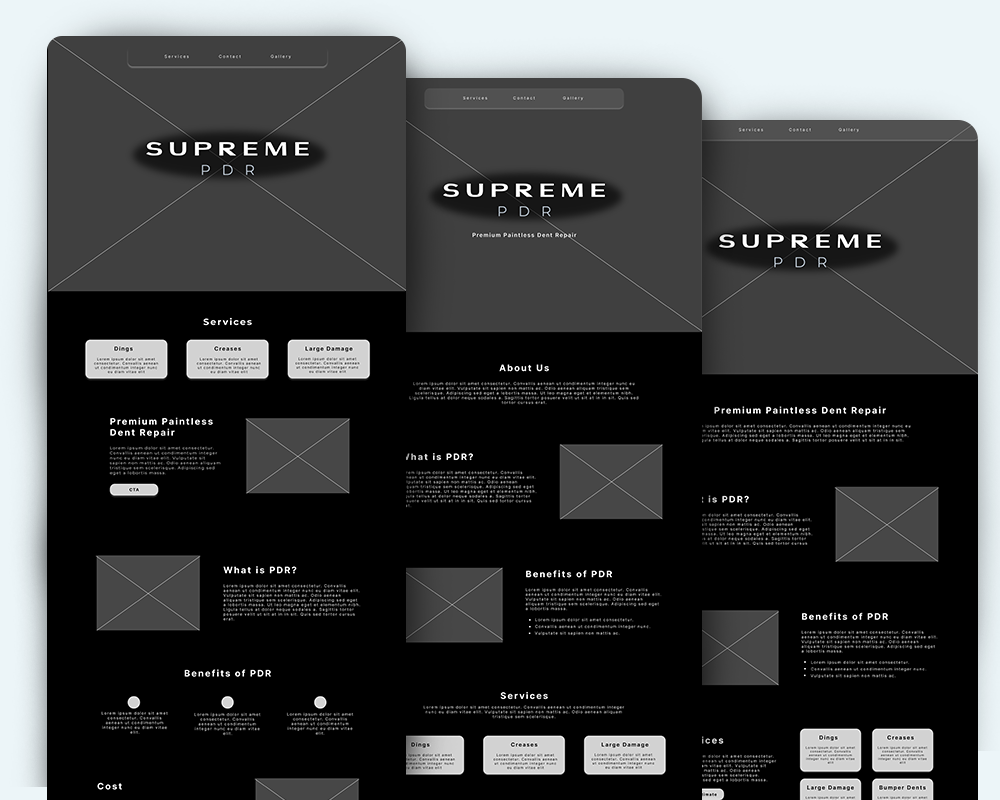
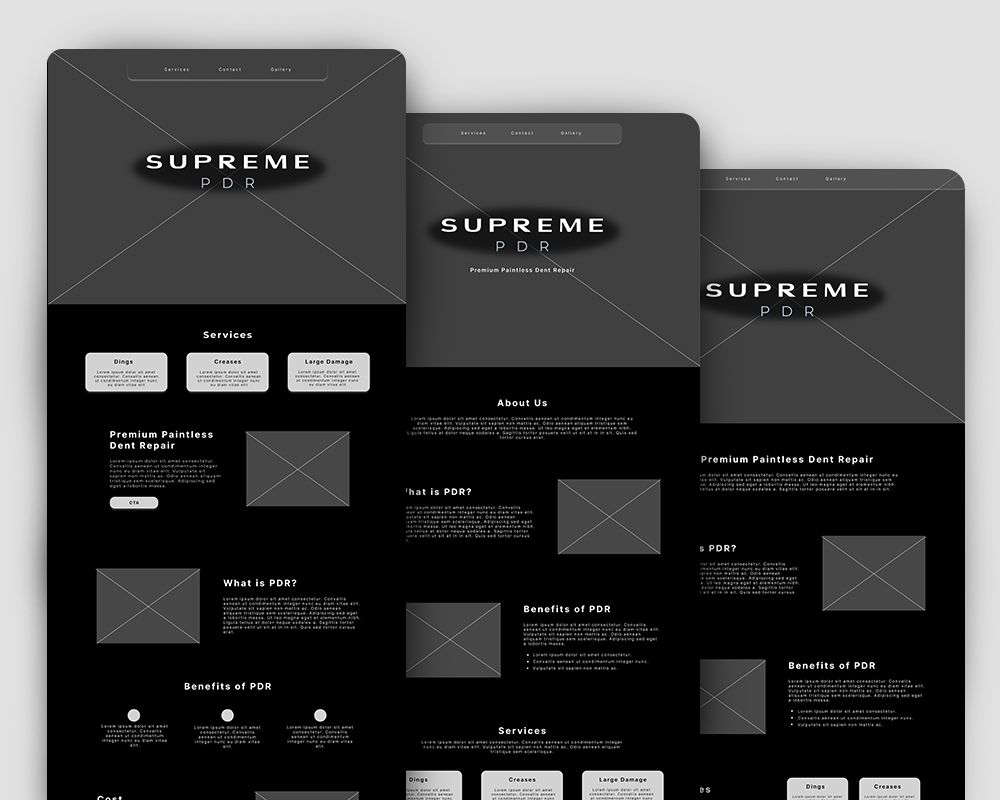
added more to stridesecurity page

diff --git a/portfolio-stridesecurity.html b/portfolio-stridesecurity.html
@@ -32,16 +32,21 @@
     </header>
 
       <div class="header">
-          <h2></h2>
+          <h2>Stride Security</h2>
         </div>
       <div class="info-body">
 
+      <div class="intro-img">
+        <img src="portfolio content/portfolio 8-stride security/web_mockup.png">
+      </div>
       <div class="intro-info">
+        <div class="intro">
+          <h3>Proposal</h3>
+          <p>I am leading the complete design process for an innovative cybersecurity start-up, shaping its brand identity and online presence from the ground up. This includes crafting a sleek, modern website, developing a distinctive logo, and creating a comprehensive style guide to ensure brand consistency. With full creative control, I collaborate closely with the client, refining designs based on their preferences to build a strong and professional digital presence that reflects their mission and values.</p>
+        </div>
         <div class="intro">
           <h3>Client</h3>
           <p>Stride Security</p>
-          <h3>Proposal</h3>
-          <p>I am leading the complete design process for an innovative cybersecurity start-up, shaping its brand identity and online presence from the ground up. This includes crafting a sleek, modern website, developing a distinctive logo, and creating a comprehensive style guide to ensure brand consistency. With full creative control, I collaborate closely with the client, refining designs based on their preferences to build a strong and professional digital presence that reflects their mission and values.</p>
           <h4>Role</h4>
           <p>Digital Designer, Web Designer, Web Developer</p>
           <h4>Tools</h4>
@@ -54,9 +59,7 @@
           </div>
         </div>
 
-        <div class="intro intro-img">
-          <img src="">
-        </div>
+
       </div>
 
       <div class="info-container">
@@ -76,10 +79,20 @@
         <h3>Approach</h3>
         <p>In the initial wireframing phase, my goal was to determine all the necessary pages required to present the company’s information and services effectively. I then focused on identifying the best ways to structure and display this content, ensuring a user-friendly experience that aligns with industry standards.</p>
         <div class="info-img corner">
-          <img src="portfolio content/portfolio 7-Supreme PDR/wireframes.png">
+          <img src="portfolio content/portfolio 8-stride security/wireframes.png">
         </div>
       </div>
 
+      <div class="info-container">
+        <h3>Design Decisions</h3>
+        <div class="info-img border corner">
+          <img src="portfolio content/portfolio 8-stride security/logo_design.png">
+        </div>
+        <div class="info-img border corner">
+          <img src="portfolio content/portfolio 8-stride security/style sheet.png">
+        </div>
+
+      </div>
 
         <div>
           

diff --git a/portfolio.html b/portfolio.html
@@ -58,19 +58,19 @@
           <a href="portfolio-family-calendar.html"><h3>Family Calendar</h3></a>
         </div>
         <div>
-          <a href="portfolio-dent-guys-redesign.html"><img src="portfolio content/portfolio 6-Dent_Guys/Dent_Guys-mockup.jpg"/></a>
-          <a href="portfolio-dent-guys-redesign.html"><p>Web Design</p></a>
+          <a href="portfolio-dent-guys-redesign.html"><img src="portfolio content/portfolio 6-Dent_Guys/computer-mockup.png"/></a>
+          <a href="portfolio-dent-guys-redesign.html"><p>Web Design and Github Development</p></a>
           <a href="portfolio-dent-guys-redesign.html"><h3>The Dent Guys Inc</h3></a>
         </div>
         <div>
-          <a href="portfolio-supreme-pdr.html"><img src="portfolio content/portfolio 7-Supreme PDR/supremepdr-computer_mockup.png"></a>
+          <a href="portfolio-supreme-pdr.html"><img src="portfolio content/portfolio 7-Supreme PDR/multi_device-mockup.png"></a>
           <a href="portfolio-supreme-pdr.html"><p>Web Design and WordPress Development</p></a>
           <a href="portfolio-supreme-pdr.html"><h3>Supreme PDR</h3></a>
         </div>
         <div>
-          <a href=""><img src="portfolio content/Coming_soon.png"></a>
-          <a href=""><p>Web Design and Webflow Development</p></a>
-          <a href=""><h3>StrideSecurity</h3></a>
+          <a href="portfolio-stridesecurity.html"><img src="portfolio content/portfolio 8-stride security/Mockup.png"></a>
+          <a href="portfolio-stridesecurity.html"><p>Web Design and Webflow Development</p></a>
+          <a href="portfolio-stridesecurity.html"><h3>StrideSecurity</h3></a>
         </div>
 
       </div>

diff --git a/portfolio-supreme-pdr.html b/portfolio-supreme-pdr.html
@@ -37,12 +37,18 @@
 
       <div class="info-body">
 
+        <div class="intro-img">
+          <img src="portfolio content/portfolio 7-Supreme PDR/web-mockup.png">
+        </div>
         <div class="intro-info">
           <div class="intro">
-            <h3>Client</h3>
-            <p>Supreme PDR</p>
             <h3>Proposal</h3>
             <p>Supreme PDR is a newly established small business in the Lehigh Valley, Pennsylvania area. With competitors in the region, they aim to stand out through strong branding and a professional online presence. I worked closely with the client to develop a cohesive brand identity, designing their website, logo, and style guide to align with their vision. They requested a sleek, modern, single-page design with a dark aesthetic, highlighting their services and showcasing a gallery of completed work.</p>
+          </div>
+
+          <div class="intro ">
+            <h3>Client</h3>
+            <p>Supreme PDR</p>
             <h4>Role</h4>
             <p>Graphic Designer, Web Designer, Web Developer</p>
             <h4>Tools</h4>
@@ -54,10 +60,6 @@
                 <li><img src="images/wordpress-logo.png">WordPress</li>
               </ul>
             </div>
-          </div>
-
-          <div class="intro intro-img">
-            <img src="portfolio content/portfolio 7-Supreme PDR/supremepdr-computer_mockup-transparent.png">
           </div>
         </div>
 

diff --git a/main.css b/main.css
@@ -574,13 +574,13 @@ header h2 {
 .header {
     text-align: center;
     background-color: #ecf5f8;
-    padding-top: 50px;
-    padding-bottom: 50px;
+    padding-top: 20px;
+    padding-bottom: 20px;
 }
 .info-body{
     margin-left: 20%;
     margin-right: 20%;
-    margin-top: 5%;
+    margin-top: 2%;
     margin-bottom: 5%;
 }
 .info-body li {
@@ -602,11 +602,8 @@ header h2 {
 .info-img {
     text-align: center;
 }
-.info-container p {
-    padding-right: 20%;
-}
 .corner img {
-    border-radius: 20px;
+    border-radius: 10px;
 }
 .border img {
     border: solid 1px black;
@@ -618,15 +615,23 @@ header h2 {
     flex-direction: row;
     flex-wrap: nowrap;
     margin-bottom: 50px;
-    gap: 50px;
+    gap: 100px;
 }
 .intro {
     width: 50%;
+
+}
+.intro img {
+    width: 100%;
+}
+.intro-img {
+    display: flex;
+    justify-content: center;
 }
 .intro-img img {
-    width: 100%;
+    width: 75%;
     height: auto;
-    border-radius: 20px;
+    border-radius: 10px;
 }
 .arrow-connections {
     display: flex;
@@ -926,6 +931,7 @@ border-radius: 20px;
     display: flex;
     flex-direction: row;
     justify-content: space-between;
+    gap: 50px;
 
 }
 .dent_guys-wireframes p {

diff --git a/portfolio-dent-guys-redesign.html b/portfolio-dent-guys-redesign.html
@@ -83,8 +83,8 @@
                 <h4>Wireframes</h4>
                 <p>The first step was creating wireframes to create the best flow of information. Spreading out info to make it less cluttered and more understandable. Design more pages for necessary service descriptions and a more accessible user flow.</p>
               </div>
-              <div class="intro">
-                <img src="portfolio content/portfolio 6-Dent_Guys/dent_guys-wireframes.png" alt="The Dent Guys wireframes"/>
+              <div class="intro corner">
+                <img src="portfolio content/portfolio 6-Dent_Guys/wireframes.png" alt="The Dent Guys wireframes"/>
               </div>
             </div>
             
